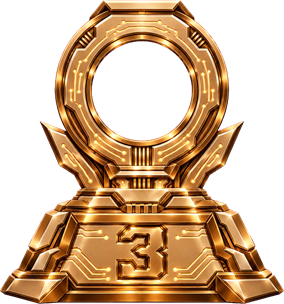
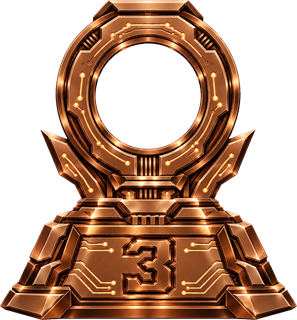
The first three get the winged plate; bronze is bronze
The champions' plate goes on the rows it was drawn for. It frames a panel
only 38% of its own height, so it is drawn 92px tall for two lines to fit
inside the metal -- half again as tall as the rows below it, which is no
loss: the first three have earned a taller row. Its ends come to 148px
each, which a row can afford now that rows are stated at the list's width
plus their bleed rather than shrinking to fit their contents.

The 62px inset that plate needs is the deepest of the four, so every plate
takes that one inset and the columns still run in a single line down the
list. The quest count waits for a 1400px window, because the board sits in
a column rather than across the whole page.

The compact plate becomes the masthead. Standing in the first three
outranks being yourself -- the "you" chip in the name still says which row
is whose.

Third place is bronze now, and stands a little taller than the drawing it
replaces, so the ring in its arch was re-measured: the face is placed off
those numbers, not off a guess.

diff --git a/styles.css b/styles.css
@@ -1135,10 +1135,10 @@ a:hover { color: var(--gold-text); }
 /* The board sits in a column, not across the window, so the quest count —
    the one figure the list is not sorted by — only gets a column of its own
    once the window is wide enough for the column to be wide enough. */
-.lb-row { --rh: 62px; --lb-inset: 54px; display: grid; grid-template-columns: 26px 24px 1fr 70px; align-items: center; gap: 8px; padding: 10px 0; border-bottom: 1px solid var(--border); }
+.lb-row { --rh: 62px; --lb-inset: 62px; display: grid; grid-template-columns: 26px 24px 1fr 70px; align-items: center; gap: 8px; padding: 10px 0; border-bottom: 1px solid var(--border); }
 .lb-row > .lb-quests { display: none; }
-@media (min-width: 1040px) {
-  .lb-row { grid-template-columns: 32px 24px 1fr 58px 82px; gap: 10px; }
+@media (min-width: 1400px) {
+  .lb-row { grid-template-columns: 30px 24px 1fr 52px 76px; gap: 9px; }
   .lb-row > .lb-quests { display: block; }
 }
 .lb-row:last-child { border-bottom: none; }
@@ -1177,14 +1177,18 @@ a:hover { color: var(--gold-text); }
         plain       .974  / .974    .766 / .756     .196 / .228
         yours      1.063  / 1.078   .855 / .870     .201 / .232
         champions  1.615  / 1.609   .672 / .674     .278 / .344
+        masthead   1.660  / 1.663   .573 / .575     .189 / .214
 
-   --lb-inset is the deepest of those panels, so a plain row, your own row and
-   the masthead all start their text in the same place and the columns run in
-   one line down the page even though the three frames differ.
+   The champions' plate frames a panel only 38% of its own height, so it has
+   to be drawn 92px tall for two lines of text to fit inside the metal — half
+   again as tall as the rows below it, which is no loss: the first three have
+   earned a taller row. Its ends then measure 148px each, and the 62px inset
+   it needs is the deepest of the four, so every plate takes that one inset
+   and the columns run in a single line down the whole list.
 
    The plate is a dark surface in both themes, so the text on it is given
    light colours outright rather than the theme's ink. */
-.lb-row.lb-plate, .lb-row.lb-plate-you, .lb-row.lb-plate-top {
+.lb-row.lb-plate, .lb-row.lb-plate-you, .lb-row.lb-plate-top, .lb-row.lb-plate-champ {
   /* A row is a <button>, and a button shrinks to fit its contents, so a row
      cannot be left to size itself — it would come out as wide as the name it
      happens to carry. Its width is stated instead, and stated as the width of
@@ -1209,32 +1213,36 @@ a:hover { color: var(--gold-text); }
   border-image-width: 0 calc(var(--rh) * 1.078) 0 calc(var(--rh) * 1.063);
   padding: calc(var(--rh) * .201) var(--lb-inset) calc(var(--rh) * .232);
 }
-/* The masthead, which is where the champions' plate sits for now: its ends
-   measure over one and a half times its own height, so two of them leave a
-   row on a phone no width to write a name in. See the note in ui.js. */
-.lb-row.lb-head.lb-plate-top {
-  --rh: 46px;
-  margin-bottom: 10px;
+.lb-row.lb-plate-top {
+  --rh: 92px;
   border-image-source: url("assets/podium/row-top.png");
   border-image-slice: 0 309 0 310 fill;
   border-image-width: 0 calc(var(--rh) * 1.609) 0 calc(var(--rh) * 1.615);
   padding: calc(var(--rh) * .278) var(--lb-inset) calc(var(--rh) * .344);
 }
-.lb-plate .lb-name, .lb-plate-you .lb-name { color: #f2ece1; }
-.lb-plate .lb-meta, .lb-plate-you .lb-meta { color: #a49685; }
-.lb-plate .lb-quests, .lb-plate-you .lb-quests { color: #8d8172; }
-.lb-plate .lb-total, .lb-plate-you .lb-total { color: #f0cf94; }
-.lb-plate .lb-pos, .lb-plate-you .lb-pos { color: #9a8d7d; }
-.lb-head.lb-plate-top .lb-pos, .lb-head.lb-plate-top .lb-player,
-.lb-head.lb-plate-top .lb-quests, .lb-head.lb-plate-top .lb-total {
+.lb-row.lb-head.lb-plate-champ {
+  --rh: 44px;
+  margin-bottom: 10px;
+  border-image-source: url("assets/podium/row-champ.png");
+  border-image-slice: 0 319 fill;
+  border-image-width: 0 calc(var(--rh) * 1.663) 0 calc(var(--rh) * 1.660);
+  padding: calc(var(--rh) * .189) var(--lb-inset) calc(var(--rh) * .214);
+}
+.lb-row[class*="lb-plate"] .lb-name { color: #f2ece1; }
+.lb-row[class*="lb-plate"] .lb-meta { color: #a49685; }
+.lb-row[class*="lb-plate"] .lb-quests { color: #8d8172; }
+.lb-row[class*="lb-plate"] .lb-total { color: #f0cf94; }
+.lb-row[class*="lb-plate"] .lb-pos { color: #9a8d7d; }
+.lb-head.lb-plate-champ .lb-pos, .lb-head.lb-plate-champ .lb-player,
+.lb-head.lb-plate-champ .lb-quests, .lb-head.lb-plate-champ .lb-total {
   color: #9c8e7c; font-size: 9.5px; letter-spacing: .04em; white-space: nowrap; overflow: hidden;
 }
-/* The plate leaves about half its height to write in, so the two lines of a
-   row have to stay two lines — a wrapped rank line pushes out of the metal. */
-.lb-plate .lb-meta, .lb-plate-you .lb-meta { overflow: hidden; text-overflow: ellipsis; white-space: nowrap; }
-button.lb-row-btn.lb-plate:hover, button.lb-row-btn.lb-plate-you:hover, button.lb-row-btn.lb-plate-top:hover {
-  background: none; filter: brightness(1.12);
-}
+/* Each plate leaves a fixed panel to write in, so the two lines of a row
+   have to stay two lines and stay inside it — a wrapped rank line, or a pair
+   of default line boxes, pushes out onto the metal. */
+.lb-row[class*="lb-plate"] .lb-meta { overflow: hidden; text-overflow: ellipsis; white-space: nowrap; }
+.lb-row[class*="lb-plate"] .lb-player { gap: 1px; line-height: 1.2; }
+button.lb-row-btn[class*="lb-plate"]:hover { background: none; filter: brightness(1.12); }
 /* The sticky copy of your row needs no card of its own — the plate is one. */
 .lb-sticky { background: none; box-shadow: none; border-radius: 0; }
 
@@ -1269,9 +1277,8 @@ button.lb-row-btn.lb-plate:hover, button.lb-row-btn.lb-plate-you:hover, button.l
      shrink with it, reach into the panel's padding, and the quest count —
      the one column that isn't what the board is sorted by — gives up its
      place so a name still has room to be read. */
-  .lb-row { --rh: 60px; --lb-inset: 52px; grid-template-columns: 22px 20px 1fr 54px; gap: 5px; }
-  .lb-row.lb-plate, .lb-row.lb-plate-you, .lb-row.lb-plate-top { --lb-bleed: 16px; }
-  .lb-row.lb-head.lb-plate-top { --rh: 42px; }
+  .lb-row { --rh: 60px; grid-template-columns: 22px 20px 1fr 54px; gap: 5px; }
+  .lb-row[class*="lb-plate"] { --lb-bleed: 16px; }
   /* Three monuments side by side need more width than a small phone has, so
      they give up a little height together rather than one of them wrapping. */
   .podium { --pod-k: .9; }
@@ -1280,6 +1287,11 @@ button.lb-row-btn.lb-plate:hover, button.lb-row-btn.lb-plate-you:hover, button.l
 /* The tab bar holds seven pages plus settings — eight for an admin — so the
    per-item padding has to give way before the icons do. */
 @media (max-width: 420px) {
+  /* Two ends of 148px and a name do not fit across a small phone, so the
+     champions' plate gives up height — its ends come in with it. */
+  .lb-row.lb-plate-top { --rh: 82px; }
+  .lb-row { --lb-inset: 56px; }
+  .podium { --pod-k: .84; }
   /* Twelve tabs on a phone: the icons give up a couple of pixels each so the
      bar fits without scrolling. */
   .nav-item { padding: 10px 2px; }

diff --git a/js/ui.js b/js/ui.js
@@ -1938,18 +1938,11 @@
 
   function renderLeaderboardRow(r, position, isMe, ui, score) {
     const medal = position != null && position <= 3 ? MEDALS[position - 1] : "";
-    // Every row is a cast metal plate: a plain one, and a brighter one for
-    // whoever is reading.
-    //
-    // The champions' plate is not among them, and the reason is arithmetic
-    // rather than taste. Its ornamental ends measure 1.61 times its own
-    // height, and the dark panel they frame is only 38% of that height — so
-    // two lines of text, which need about 33px, want a plate 88px tall, whose
-    // two ends then come to 142px each. That is 284px of a row that is 305px
-    // wide on a phone. It hangs above the list as the masthead instead until
-    // there is a version of the drawing whose ends are no wider than it is
-    // tall; then it belongs on these three rows.
-    const plate = isMe ? "lb-plate-you" : "lb-plate";
+    // Every row is a cast metal plate: a plain one, a brighter one for
+    // whoever is reading, and the winged one the first three earn. Standing
+    // in the top three outranks being yourself — the "you" chip in the name
+    // still says which row is theirs.
+    const plate = medal ? "lb-plate-top" : isMe ? "lb-plate-you" : "lb-plate";
     // Rank and level are read back out of the one number the server vouches
     // for, rather than shown as the client reported them alongside it — so a
     // row cannot claim a standing its EXP doesn't support.
@@ -1987,7 +1980,7 @@
   const PODIUM_ART = [
     { file: "first",  h: 132, fy: "46.2%", fd: "30.7%" },
     { file: "second", h: 107, fy: "39.3%", fd: "35.1%" },
-    { file: "third",  h: 96,  fy: "29.8%", fd: "35.2%" },
+    { file: "third",  h: 100, fy: "29.1%", fd: "35.4%" },
   ];
 
   function renderPodium(rows, ui, mode) {
@@ -2058,7 +2051,7 @@
         ? `<div class="lb-sticky">${renderLeaderboardRow(rows[meIndex], positions[meIndex], true, ui, mode === "week" ? scoreOf(rows[meIndex]) : null)}</div>`
         : "";
       body = renderPodium(rows, ui, mode) + `
-        <div class="lb-row lb-head lb-plate-top">
+        <div class="lb-row lb-head lb-plate-champ">
           <span class="lb-pos">#</span>
           <span class="lb-face" aria-hidden="true"></span>
           <span class="lb-player">${t("lb.colPlayer")}</span>

diff --git a/sw.js b/sw.js
@@ -2,7 +2,7 @@
 // fresh from the network (so an edit + redeploy shows up the next time you
 // open the app — no reinstall needed) and quietly cached as an offline
 // fallback. Only when the network fails does it serve the last cached copy.
-const CACHE_NAME = "the-system-v105";
+const CACHE_NAME = "the-system-v106";
 const CORE_ASSETS = [
   "./", "./index.html", "./styles.css", "./manifest.json",
   "./js/i18n.js", "./js/constants.js", "./js/storage.js", "./js/engine.js", "./js/state-merge.js", "./js/planner.js", "./js/planner-sync.js", "./js/cloud.js",
@@ -12,7 +12,7 @@ const CORE_ASSETS = [
   "./assets/icons/overview-96.png", "./assets/icons/quests-96.png", "./assets/icons/habits-96.png", "./assets/icons/planner-96.png", "./assets/icons/stats-96.png", "./assets/icons/leaderboard-96.png", "./assets/icons/friends-96.png", "./assets/icons/intelligence-96.png", "./assets/icons/log-96.png", "./assets/icons/settings-96.png", "./assets/icons/admin-96.png", "./assets/icons/mail-96.png",
   "./assets/icons/overview-96-light.png", "./assets/icons/quests-96-light.png", "./assets/icons/habits-96-light.png", "./assets/icons/planner-96-light.png", "./assets/icons/stats-96-light.png", "./assets/icons/leaderboard-96-light.png", "./assets/icons/friends-96-light.png", "./assets/icons/intelligence-96-light.png", "./assets/icons/log-96-light.png", "./assets/icons/settings-96-light.png", "./assets/icons/admin-96-light.png", "./assets/icons/mail-96-light.png",
   "./assets/frames/dial-ring-512.png", "./assets/frames/dial-ring-512-light.png",
-  "./assets/podium/first.png", "./assets/podium/second.png", "./assets/podium/third.png", "./assets/podium/row.png", "./assets/podium/row-you.png", "./assets/podium/row-top.png",
+  "./assets/podium/first.png", "./assets/podium/second.png", "./assets/podium/third.png", "./assets/podium/row.png", "./assets/podium/row-you.png", "./assets/podium/row-top.png", "./assets/podium/row-champ.png",
   "./assets/ranks/G-128.png", "./assets/ranks/F-128.png", "./assets/ranks/E-128.png", "./assets/ranks/D-128.png", "./assets/ranks/C-128.png", "./assets/ranks/B-128.png", "./assets/ranks/A-128.png", "./assets/ranks/S-128.png",
 ];
 
